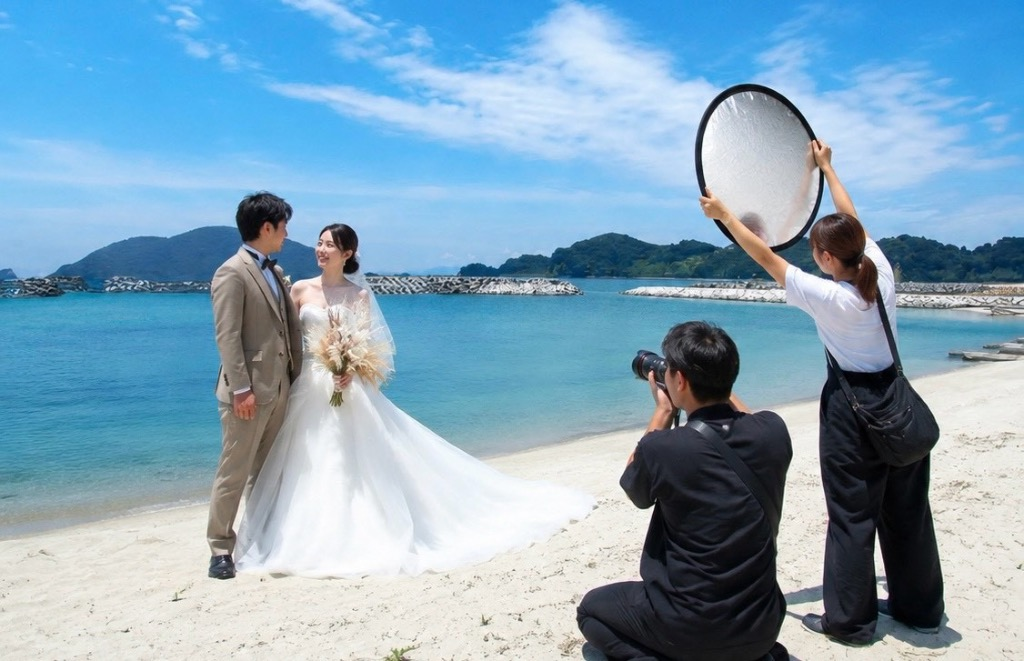
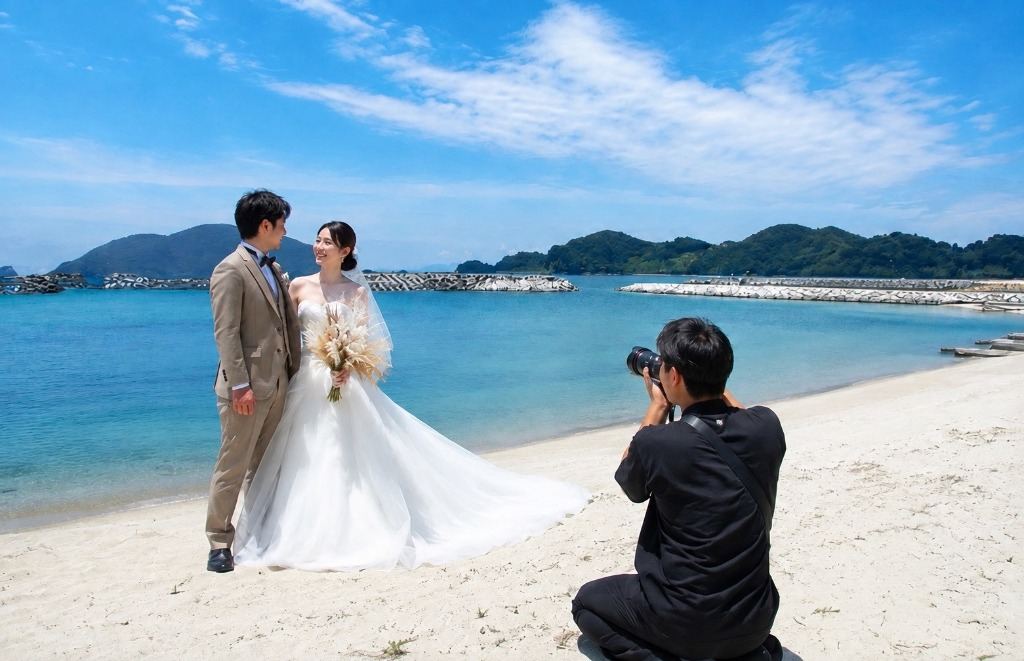
feat: 撮影・オフ会・サークルカテゴリの写真を最新画像に差し替え

diff --git a/prices.js b/prices.js
@@ -180,7 +180,7 @@ const PRICE_CONFIG = {
       },
       {
         icon: "📸",
-        image: "images/event_photo.jpg",
+        image: "images/event_photo_v2.jpg",
         title: "撮影・オフ会・サークル",
         desc: "MV撮影、コスプレ・ポートレート撮影、ファンミーティングなどに。"
       }
